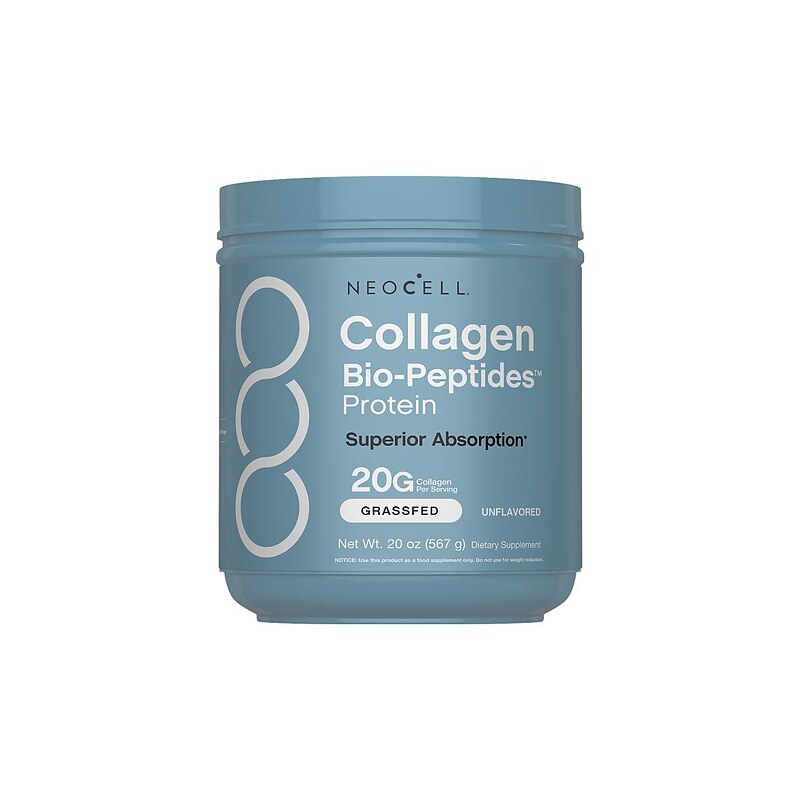
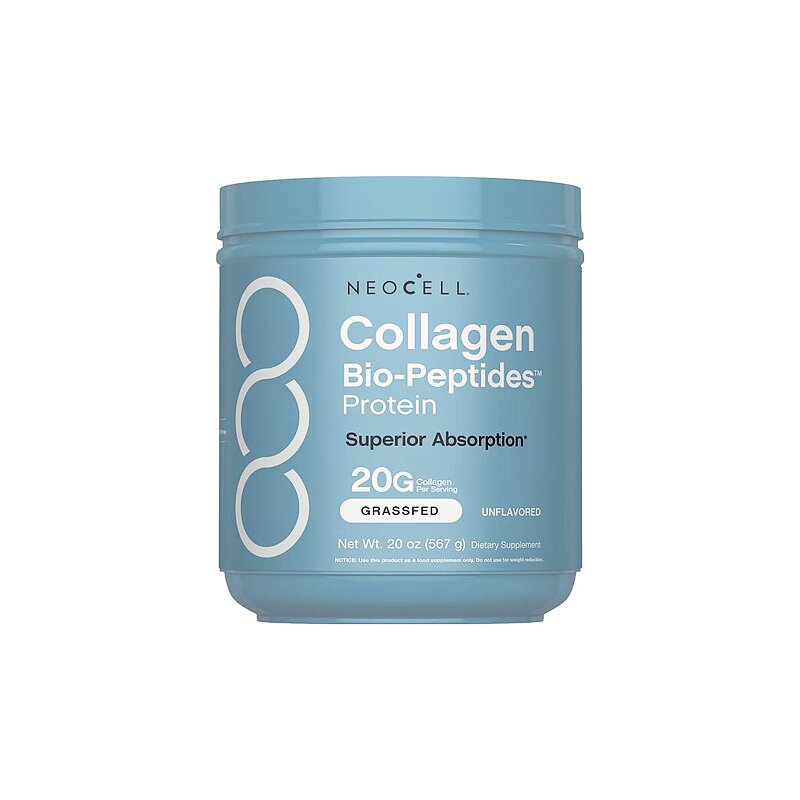
content+assets: 10-video retainer bundle ($9,000, save $1,000); packshot exposure pass
New bundle option listed first in the tier card and the retainer-cost
FAQ. Packshots: collagen (+20 brightness/+15 contrast — the set's
flat outlier), nac and saffron (auto-tone) corrected via Photoshop
API with backgrounds verified pure white; astaxanthin, nmn, and
magnesium kept original (auto-tone degraded their whites). Originals
in assets/raw/*-pre-polish.jpg.

Changed region(s): [[0.2812, 0.2188, 0.7188, 0.7812]]

diff --git a/tools/media-kit.html b/tools/media-kit.html
@@ -1,0 +1,133 @@
+<!DOCTYPE html>
+<html lang="en">
+<head>
+<meta charset="utf-8">
+<title>Hammad Media — Media Kit</title>
+<style>
+  @font-face { font-family: "Fraunces"; src: url(../assets/fonts/fraunces-roman.woff2) format("woff2-variations"); font-weight: 100 900; }
+  @font-face { font-family: "Fraunces"; src: url(../assets/fonts/fraunces-italic.woff2) format("woff2-variations"); font-style: italic; font-weight: 100 900; }
+  @font-face { font-family: "Manrope"; src: url(../assets/fonts/manrope.woff2) format("woff2-variations"); font-weight: 200 800; }
+  :root {
+    --bg: #0b130e; --paper: #f6f4ee; --cream: #ece9e0; --dim: #b3bbb1;
+    --green: #3ddc84; --green-deep: #0e7a4a; --card: rgba(61,220,132,.07);
+    --line: rgba(61,220,132,.22);
+  }
+  * { margin: 0; padding: 0; box-sizing: border-box; }
+  @page { size: A4 portrait; margin: 0; }
+  html, body { width: 210mm; height: 297mm; }
+  body {
+    font-family: "Manrope", sans-serif; font-weight: 450; background: var(--bg); color: var(--cream);
+    padding: 13mm 14mm; display: flex; flex-direction: column; gap: 5.5mm;
+    -webkit-print-color-adjust: exact; print-color-adjust: exact;
+  }
+  header { display: flex; justify-content: space-between; align-items: center; }
+  header img { height: 11mm; width: auto; }
+  .badge {
+    border: 1px solid var(--line); border-radius: 100px; padding: 2.4mm 5mm;
+    color: var(--green); font-size: 8.4pt; font-weight: 700; letter-spacing: .18em; text-transform: uppercase;
+  }
+  h1 { font-family: "Fraunces", serif; font-weight: 600; font-size: 27pt; line-height: 1.1; color: var(--paper); }
+  h1 em { font-style: italic; color: var(--green); }
+  .sub { color: var(--dim); font-size: 10.5pt; max-width: 150mm; line-height: 1.55; }
+  .statgrid { display: grid; grid-template-columns: repeat(5, 1fr); gap: 3mm; }
+  .stat { background: var(--card); border: 1px solid var(--line); border-radius: 3mm; padding: 4mm 3mm; text-align: center; }
+  .stat .v { font-family: "Fraunces", serif; font-weight: 600; font-size: 16.5pt; color: var(--green); }
+  .stat .l { font-size: 6.6pt; font-weight: 700; letter-spacing: .08em; text-transform: uppercase; color: var(--dim); margin-top: 1.2mm; }
+  h2 { font-family: "Fraunces", serif; font-weight: 600; font-size: 13pt; color: var(--paper); margin-bottom: 2.4mm; }
+  .row { display: grid; grid-template-columns: 1fr 1fr; gap: 5mm; }
+  .panel { background: var(--card); border: 1px solid var(--line); border-radius: 3mm; padding: 5mm; }
+  .funnel { display: flex; gap: 6mm; }
+  .funnel div { flex: 1; }
+  .funnel .v { font-family: "Fraunces", serif; font-size: 15pt; font-weight: 600; color: var(--paper); }
+  .funnel .l { font-size: 7.4pt; text-transform: uppercase; letter-spacing: .06em; color: var(--dim); margin-top: 1mm; }
+  .prov { font-size: 7.4pt; color: var(--dim); margin-top: 2.6mm; }
+  ul.acc { list-style: none; font-size: 9.6pt; line-height: 1.75; }
+  ul.acc b { color: var(--green); }
+  .tiers { display: grid; grid-template-columns: repeat(3, 1fr); gap: 3.6mm; }
+  .tier { background: var(--card); border: 1px solid var(--line); border-radius: 3mm; padding: 4.4mm; }
+  .tier.hot { border-color: var(--green); }
+  .tier .tag { font-size: 6.6pt; font-weight: 800; letter-spacing: .14em; text-transform: uppercase; color: var(--green); }
+  .tier h3 { font-family: "Fraunces", serif; font-weight: 600; font-size: 11.5pt; color: var(--paper); margin: 1.6mm 0 .8mm; }
+  .tier .p { font-size: 9.4pt; font-weight: 700; color: var(--green); }
+  .tier .d { font-size: 8pt; color: var(--dim); line-height: 1.5; margin-top: 1.6mm; }
+  .steps { display: flex; gap: 5mm; font-size: 8.6pt; color: var(--dim); line-height: 1.5; }
+  .steps b { display: block; color: var(--cream); font-size: 9.4pt; margin-bottom: 1mm; }
+  .steps span.n { color: var(--green); font-family: "Fraunces", serif; font-style: italic; font-size: 12pt; margin-right: 1.4mm; }
+  footer { margin-top: auto; border-top: 1px solid var(--line); padding-top: 4mm;
+    display: flex; justify-content: space-between; align-items: center; font-size: 9.6pt; }
+  footer .c b { color: var(--green); font-weight: 700; }
+  footer .note { font-size: 7pt; color: var(--dim); max-width: 70mm; text-align: right; line-height: 1.5; }
+</style>
+</head>
+<body>
+  <header>
+    <img src="../assets/logo-v2.webp" alt="Hammad Media">
+    <span class="badge">#1 Health &amp; Wellness Affiliate — TikTok Shop US, 2025</span>
+  </header>
+
+  <div>
+    <h1>I turn supplements into <em>bestsellers.</em></h1>
+    <p class="sub" style="margin-top:3mm">One creator. Two TikTok Shop accounts. I write, film, and post every video myself.
+    You check every sale in your own TikTok Shop Seller Center.</p>
+  </div>
+
+  <div class="statgrid">
+    <div class="stat"><div class="v">$8M+</div><div class="l">GMV — all time</div></div>
+    <div class="stat"><div class="v">$2.79M+</div><div class="l">GMV — 2026 so far</div></div>
+    <div class="stat"><div class="v">113K+</div><div class="l">Units — 2026 so far</div></div>
+    <div class="stat"><div class="v">105M+</div><div class="l">Product views — 2026</div></div>
+    <div class="stat"><div class="v">416M+</div><div class="l">Video views — all time</div></div>
+  </div>
+
+  <div class="row">
+    <div class="panel">
+      <h2>From views to orders</h2>
+      <div class="funnel">
+        <div><div class="v">2.73%</div><div class="l">Product click-through</div></div>
+        <div><div class="v">3.91%</div><div class="l">Click to order</div></div>
+        <div><div class="v">$26.38</div><div class="l">GMV per 1,000 views</div></div>
+      </div>
+      <p class="prov">TikTok Shop dashboards, Jan 1 – Jun 8, 2026, both accounts.</p>
+    </div>
+    <div class="panel">
+      <h2>The accounts</h2>
+      <ul class="acc">
+        <li><b>@drew.review</b> — 182.9K followers · $901K GMV · 37.3M product views (2026 so far)</li>
+        <li><b>@drew.review1</b> — 155K followers · $1.89M GMV · 68.5M product views (2026 so far)</li>
+      </ul>
+    </div>
+  </div>
+
+  <div>
+    <h2>Ways to partner</h2>
+    <div class="tiers">
+      <div class="tier">
+        <div class="tag">Start here</div><h3>Boosted Commission</h3>
+        <div class="p">$0 upfront — commission only</div>
+        <div class="d">For products with 10,000+ units already sold on TikTok Shop. You pay only when your product sells.</div>
+      </div>
+      <div class="tier hot">
+        <div class="tag">Most popular</div><h3>Retainer + Commission</h3>
+        <div class="p">From $1,000 per video</div>
+        <div class="d">10 for $9,000 (save $1,000) · 15 for $13,500 (save $1,500) · 30 for $25,000 (save $5,000). Guaranteed videos on both accounts, month to month.</div>
+      </div>
+      <div class="tier">
+        <div class="tag">Own the category</div><h3>Exclusive</h3>
+        <div class="p">From $50,000 per month</div>
+        <div class="d">One brand per category. I never promote your competitors. Once your category is taken, it is closed.</div>
+      </div>
+    </div>
+  </div>
+
+  <div class="steps">
+    <div><b><span class="n">1</span>Send me your product</b>Ship one sample and set an affiliate commission on TikTok Shop.</div>
+    <div><b><span class="n">2</span>I create the content</b>First video usually live within 48 hours. No editors, no agencies, no approval rounds.</div>
+    <div><b><span class="n">3</span>You check every sale</b>Every attributed sale is visible in your own Seller Center.</div>
+  </div>
+
+  <footer>
+    <div class="c"><b>[email redacted]</b> &nbsp;·&nbsp; WhatsApp [phone redacted] &nbsp;·&nbsp; hammadmedia.com</div>
+    <div class="note">I take on four new products each month. I reply to every brand inquiry within 24 hours. Figures from TikTok Shop dashboards, updated June 8, 2026.</div>
+  </footer>
+</body>
+</html>